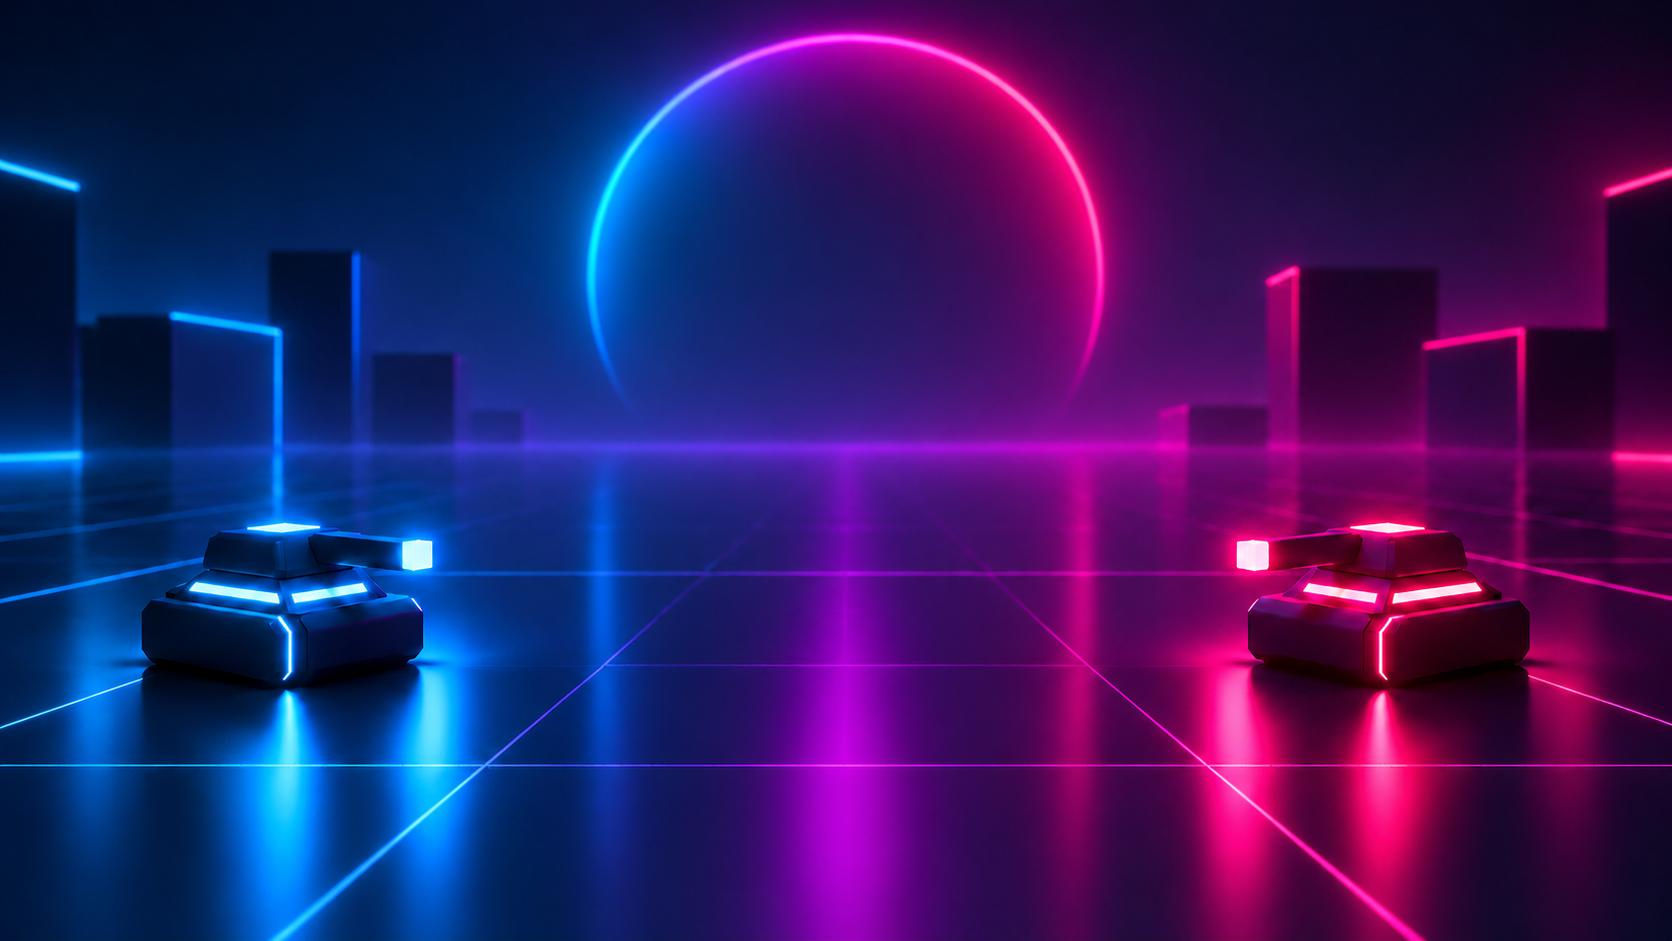
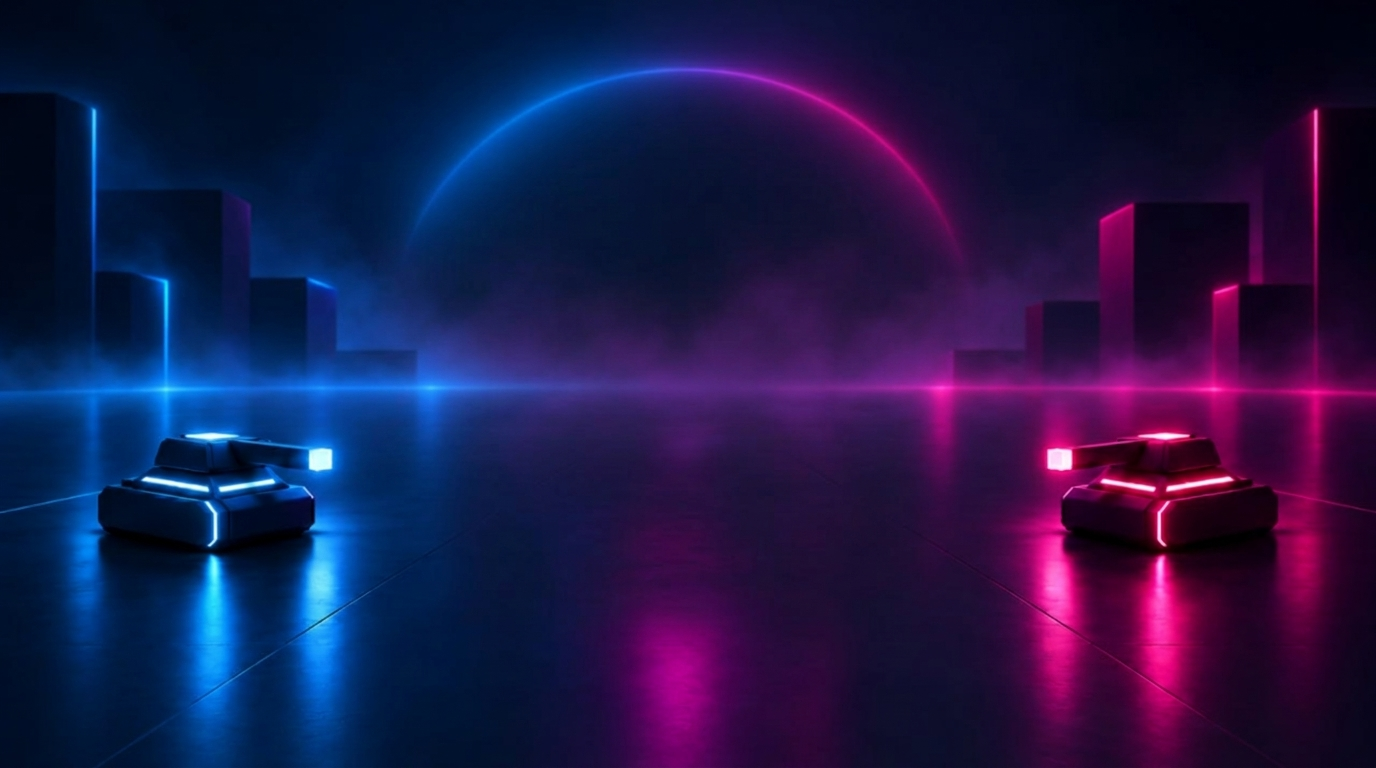
feat(ui): update main menu design and add animated neon fog

diff --git a/Assets/Scripts/UI/MainMenu.cs b/Assets/Scripts/UI/MainMenu.cs
@@ -7,10 +7,28 @@ namespace DemoRicochet
     /// <summary>Главное меню на обычных Canvas, Image и Button.</summary>
     public class MainMenu : MonoBehaviour
     {
+        private struct FogPuff
+        {
+            public RectTransform rect;
+            public RawImage image;
+            public Vector2 basePos;
+            public Vector2 baseSize;
+            public Color baseColor;
+            public float driftAmpX;
+            public float driftAmpY;
+            public float speed;
+            public float phase;
+        }
+
         private const string ArtPath = "NeonTanks/UI/";
         private Font _font;
         private Button _playButton;
         private RectTransform _layout;
+        private Texture2D _fogRibbonTex;
+        private Texture2D _fogPuffTex;
+        private RawImage _ribbonA;
+        private RawImage _ribbonB;
+        private FogPuff[] _fogPuffs;
 
         private void Awake()
         {
@@ -38,24 +56,32 @@ namespace DemoRicochet
             fitter.aspectMode = AspectRatioFitter.AspectMode.EnvelopeParent;
             fitter.aspectRatio = texture != null ? (float)texture.width / texture.height : 16f / 9f;
 
+            BuildAnimatedFog(backgroundRect);
+
             RectTransform safeArea = CreateRect("SafeArea", canvasObj.transform, Vector2.zero, Vector2.zero);
             safeArea.gameObject.AddComponent<UISafeArea>();
 
-            _layout = CreateRect("MenuLayout", safeArea, new Vector2(560f, 520f), Vector2.zero);
-            Image logo = CreateImage("MainMenuLogo", _layout, new Vector2(500f, 192f), new Vector2(0f, 136f));
+            _layout = CreateRect("MenuLayout", safeArea, new Vector2(520f, 480f), Vector2.zero);
+            Image logo = CreateImage("MainMenuLogo", _layout, new Vector2(472f, 182f), new Vector2(0f, 146f));
             logo.preserveAspect = true;
 
             _playButton = CreateMenuButton(_layout, "Play", "ИГРАТЬ", "MainMenuButtonCyan",
-                -23f, 30, Color.white, new Color(0f, 0.92f, 1f), LevelManager.StartCampaign);
+                -19f, 23, Color.white, new Color(0f, 0.92f, 1f), LevelManager.StartCampaign);
             CreateMenuButton(_layout, "Endless", "БЕСКОНЕЧНЫЙ БОЙ", "MainMenuButtonMagenta",
-                -115f, 23, Color.white, new Color(0.9f, 0.25f, 1f), LevelManager.StartEndless);
+                -97f, 18, Color.white, new Color(0.88f, 0.25f, 1f), LevelManager.StartEndless);
             CreateMenuButton(_layout, "Quit", "ВЫХОД", "MainMenuButtonMagenta",
-                -203f, 30, new Color(1f, 0.5f, 0.6f), new Color(1f, 0.1f, 0.6f), QuitGame);
+                -175f, 23, new Color(1f, 0.62f, 0.72f), new Color(1f, 0.12f, 0.56f), QuitGame);
         }
 
         private void Start()
         {
             EventSystem.current.SetSelectedGameObject(_playButton.gameObject);
+        }
+
+        private void OnDestroy()
+        {
+            if (_fogRibbonTex != null) Destroy(_fogRibbonTex);
+            if (_fogPuffTex != null) Destroy(_fogPuffTex);
         }
 
         private void LateUpdate()
@@ -65,6 +91,199 @@ namespace DemoRicochet
             Vector2 size = _layout.sizeDelta;
             float scale = Mathf.Min(1f, Mathf.Min(available.x / size.x, available.y / size.y));
             _layout.localScale = Vector3.one * Mathf.Max(0.1f, scale);
+
+            UpdateAnimatedFog(Time.unscaledTime);
+        }
+
+        private void BuildAnimatedFog(Transform parent)
+        {
+            _fogRibbonTex = CreateSeamlessRibbonTexture(256, 64);
+            _fogPuffTex = CreateCloudPuffTexture(128, 96);
+
+            RectTransform fogRoot = CreateRect("FogLayer", parent, Vector2.zero, Vector2.zero);
+            fogRoot.anchorMin = Vector2.zero;
+            fogRoot.anchorMax = Vector2.one;
+
+            _ribbonA = CreateFogRibbon("HorizonMist_A", fogRoot, new Vector2(1500f, 210f), new Vector2(0f, 44f),
+                new Color(0.18f, 0.52f, 1.0f, 0.20f), new Rect(0f, 0f, 1.6f, 1f));
+            _ribbonB = CreateFogRibbon("HorizonMist_B", fogRoot, new Vector2(1500f, 190f), new Vector2(0f, 28f),
+                new Color(0.85f, 0.16f, 0.75f, 0.18f), new Rect(0.35f, 0f, 1.3f, 1f));
+
+            _fogPuffs = new[]
+            {
+                // Левая (голубая/синяя) зона дымки у зданий и танка
+                CreateFogPuff("Fog_Cyan_1", fogRoot, new Vector2(-460f, 48f), new Vector2(540f, 210f),
+                    new Color(0.04f, 0.62f, 1.0f, 0.28f), 68f, 14f, 0.42f, 0.0f),
+                CreateFogPuff("Fog_Cyan_2", fogRoot, new Vector2(-320f, 18f), new Vector2(480f, 180f),
+                    new Color(0.10f, 0.50f, 1.0f, 0.22f), -56f, 12f, 0.34f, 1.7f),
+                CreateFogPuff("Fog_Cyan_Low", fogRoot, new Vector2(-410f, -42f), new Vector2(460f, 150f),
+                    new Color(0.05f, 0.72f, 1.0f, 0.18f), 48f, 9f, 0.50f, 3.1f),
+
+                // Центральная фиолетовая дымка на горизонте под неоновой дугой
+                CreateFogPuff("Fog_Center_1", fogRoot, new Vector2(-95f, 62f), new Vector2(520f, 195f),
+                    new Color(0.45f, 0.20f, 0.88f, 0.22f), 54f, 12f, 0.31f, 0.8f),
+                CreateFogPuff("Fog_Center_2", fogRoot, new Vector2(105f, 56f), new Vector2(520f, 195f),
+                    new Color(0.68f, 0.16f, 0.82f, 0.22f), -54f, 12f, 0.36f, 2.4f),
+
+                // Правая (пурпурно-розовая) зона дымки у зданий и танка
+                CreateFogPuff("Fog_Magenta_1", fogRoot, new Vector2(460f, 46f), new Vector2(540f, 210f),
+                    new Color(1.0f, 0.12f, 0.58f, 0.28f), -68f, 14f, 0.40f, 0.9f),
+                CreateFogPuff("Fog_Magenta_2", fogRoot, new Vector2(320f, 16f), new Vector2(480f, 180f),
+                    new Color(0.95f, 0.18f, 0.68f, 0.22f), 56f, 12f, 0.33f, 2.6f),
+                CreateFogPuff("Fog_Magenta_Low", fogRoot, new Vector2(410f, -42f), new Vector2(460f, 150f),
+                    new Color(1.0f, 0.16f, 0.52f, 0.18f), -48f, 9f, 0.48f, 4.2f)
+            };
+        }
+
+        private RawImage CreateFogRibbon(string name, Transform parent, Vector2 size, Vector2 pos, Color color, Rect uv)
+        {
+            RectTransform rt = CreateRect(name, parent, size, pos);
+            RawImage img = rt.gameObject.AddComponent<RawImage>();
+            img.texture = _fogRibbonTex;
+            img.color = color;
+            img.uvRect = uv;
+            img.raycastTarget = false;
+            return img;
+        }
+
+        private FogPuff CreateFogPuff(string name, Transform parent, Vector2 pos, Vector2 size, Color color,
+            float driftX, float driftY, float speed, float phase)
+        {
+            RectTransform rt = CreateRect(name, parent, size, pos);
+            RawImage img = rt.gameObject.AddComponent<RawImage>();
+            img.texture = _fogPuffTex;
+            img.color = color;
+            img.raycastTarget = false;
+            return new FogPuff
+            {
+                rect = rt,
+                image = img,
+                basePos = pos,
+                baseSize = size,
+                baseColor = color,
+                driftAmpX = driftX,
+                driftAmpY = driftY,
+                speed = speed,
+                phase = phase
+            };
+        }
+
+        private void UpdateAnimatedFog(float t)
+        {
+            if (_ribbonA != null)
+            {
+                Rect uv = _ribbonA.uvRect;
+                uv.x = Mathf.Repeat(t * 0.022f, 1f);
+                _ribbonA.uvRect = uv;
+                Color c = _ribbonA.color;
+                c.a = 0.18f + 0.05f * Mathf.Sin(t * 0.55f);
+                _ribbonA.color = c;
+            }
+
+            if (_ribbonB != null)
+            {
+                Rect uv = _ribbonB.uvRect;
+                uv.x = Mathf.Repeat(0.35f - t * 0.016f, 1f);
+                _ribbonB.uvRect = uv;
+                Color c = _ribbonB.color;
+                c.a = 0.16f + 0.05f * Mathf.Cos(t * 0.48f + 1.1f);
+                _ribbonB.color = c;
+            }
+
+            if (_fogPuffs == null) return;
+            for (int i = 0; i < _fogPuffs.Length; i++)
+            {
+                FogPuff p = _fogPuffs[i];
+                float a = t * p.speed + p.phase;
+                float dx = Mathf.Sin(a) * p.driftAmpX + Mathf.Cos(a * 0.63f) * (p.driftAmpX * 0.35f);
+                float dy = Mathf.Cos(a * 0.78f) * p.driftAmpY;
+                p.rect.anchoredPosition = p.basePos + new Vector2(dx, dy);
+
+                float scaleX = 1f + 0.10f * Mathf.Sin(a * 0.7f + 0.5f);
+                float scaleY = 1f + 0.08f * Mathf.Cos(a * 0.55f);
+                p.rect.sizeDelta = new Vector2(p.baseSize.x * scaleX, p.baseSize.y * scaleY);
+
+                Color col = p.baseColor;
+                col.a = p.baseColor.a * (0.78f + 0.28f * Mathf.Sin(a * 0.85f + 1.3f));
+                p.image.color = col;
+            }
+        }
+
+        private static Texture2D CreateSeamlessRibbonTexture(int width, int height)
+        {
+            Texture2D tex = new Texture2D(width, height, TextureFormat.RGBA32, false)
+            {
+                wrapMode = TextureWrapMode.Repeat,
+                filterMode = FilterMode.Bilinear
+            };
+            Color32[] pixels = new Color32[width * height];
+            for (int y = 0; y < height; y++)
+            {
+                float v = (y + 0.5f) / height;
+                float vMask = Mathf.Sin(v * Mathf.PI);
+                vMask *= vMask;
+
+                for (int x = 0; x < width; x++)
+                {
+                    float u = (float)x / width;
+                    float n1 = TileableNoise(u, v, 3.2f, 2.0f, 11.3f, 7.1f);
+                    float n2 = TileableNoise(u, v, 6.4f, 4.0f, 23.7f, 19.4f);
+                    float val = Mathf.Clamp01((n1 * 0.65f + n2 * 0.35f - 0.32f) * 1.65f) * vMask;
+                    byte a = (byte)Mathf.RoundToInt(val * 255f);
+                    pixels[y * width + x] = new Color32(255, 255, 255, a);
+                }
+            }
+            tex.SetPixels32(pixels);
+            tex.Apply(false, true);
+            return tex;
+        }
+
+        private static Texture2D CreateCloudPuffTexture(int width, int height)
+        {
+            Texture2D tex = new Texture2D(width, height, TextureFormat.RGBA32, false)
+            {
+                wrapMode = TextureWrapMode.Clamp,
+                filterMode = FilterMode.Bilinear
+            };
+            Color32[] pixels = new Color32[width * height];
+            for (int y = 0; y < height; y++)
+            {
+                float v = (y + 0.5f) / height;
+                float dy = (v - 0.5f) * 2f;
+                for (int x = 0; x < width; x++)
+                {
+                    float u = (x + 0.5f) / width;
+                    float dx = (u - 0.5f) * 2f;
+                    float distSq = dx * dx + dy * dy;
+                    if (distSq >= 1f)
+                    {
+                        pixels[y * width + x] = new Color32(255, 255, 255, 0);
+                        continue;
+                    }
+                    float falloff = 1f - distSq;
+                    falloff = falloff * falloff;
+
+                    float n1 = Mathf.PerlinNoise(u * 3.0f + 5.2f, v * 2.4f + 8.7f);
+                    float n2 = Mathf.PerlinNoise(u * 6.2f + 17.1f, v * 4.8f + 3.4f);
+                    float n3 = Mathf.PerlinNoise(u * 12.0f + 31.0f, v * 9.2f + 14.2f);
+                    float fbm = n1 * 0.55f + n2 * 0.30f + n3 * 0.15f;
+                    float val = Mathf.Clamp01((fbm - 0.25f) * 1.45f) * falloff;
+                    byte a = (byte)Mathf.RoundToInt(val * 255f);
+                    pixels[y * width + x] = new Color32(255, 255, 255, a);
+                }
+            }
+            tex.SetPixels32(pixels);
+            tex.Apply(false, true);
+            return tex;
+        }
+
+        private static float TileableNoise(float u, float v, float scaleX, float scaleY, float seedX, float seedY)
+        {
+            float nx = u * scaleX;
+            float ny = v * scaleY + seedY;
+            float a = Mathf.PerlinNoise(seedX + nx, ny);
+            float b = Mathf.PerlinNoise(seedX + nx - scaleX, ny);
+            return Mathf.Lerp(a, b, u);
         }
 
         private static void QuitGame()
@@ -80,40 +299,37 @@ namespace DemoRicochet
         private Button CreateMenuButton(Transform parent, string name, string label, string art,
             float y, int fontSize, Color tint, Color accent, UnityEngine.Events.UnityAction action)
         {
-            Image image = CreateImage(art, parent, new Vector2(388f, 72f), new Vector2(0f, y));
+            Image image = CreateImage(art, parent, new Vector2(368f, 62f), new Vector2(0f, y));
             image.name = name + "Button";
             image.color = tint;
             image.raycastTarget = true;
-            Outline glow = image.gameObject.AddComponent<Outline>();
-            glow.effectColor = new Color(accent.r, accent.g, accent.b, 0.22f);
-            glow.effectDistance = new Vector2(3f, -3f);
             Button button = image.gameObject.AddComponent<Button>();
             button.targetGraphic = image;
             button.navigation = new Navigation { mode = Navigation.Mode.Vertical };
             ColorBlock colors = button.colors;
-            colors.normalColor = new Color(0.92f, 0.92f, 0.92f);
+            colors.normalColor = new Color(0.94f, 0.94f, 0.94f);
             colors.highlightedColor = Color.white;
             colors.selectedColor = Color.white;
-            colors.pressedColor = new Color(0.65f, 0.65f, 0.65f);
+            colors.pressedColor = new Color(0.68f, 0.68f, 0.68f);
             colors.fadeDuration = 0.1f;
             button.colors = colors;
             button.onClick.AddListener(NeonAudio.UiClick);
             button.onClick.AddListener(action);
 
-            RectTransform labelRect = CreateRect("Label", button.transform, new Vector2(310f, 56f), Vector2.zero);
+            RectTransform labelRect = CreateRect("Label", button.transform, new Vector2(300f, 50f), Vector2.zero);
             Text text = labelRect.gameObject.AddComponent<Text>();
             text.font = _font;
             text.text = label;
             text.fontSize = fontSize;
             text.fontStyle = FontStyle.Bold;
             text.resizeTextForBestFit = true;
-            text.resizeTextMinSize = 18;
+            text.resizeTextMinSize = 16;
             text.resizeTextMaxSize = fontSize;
             text.alignment = TextAnchor.MiddleCenter;
             text.color = Color.white;
             text.raycastTarget = false;
 
-            Image arrow = CreateImage("MainMenuArrow", button.transform, new Vector2(12f, 22f), new Vector2(164f, 0f));
+            Image arrow = CreateImage("MainMenuArrow", button.transform, new Vector2(11f, 18f), new Vector2(159f, 0f));
             arrow.color = accent;
             return button;
         }
